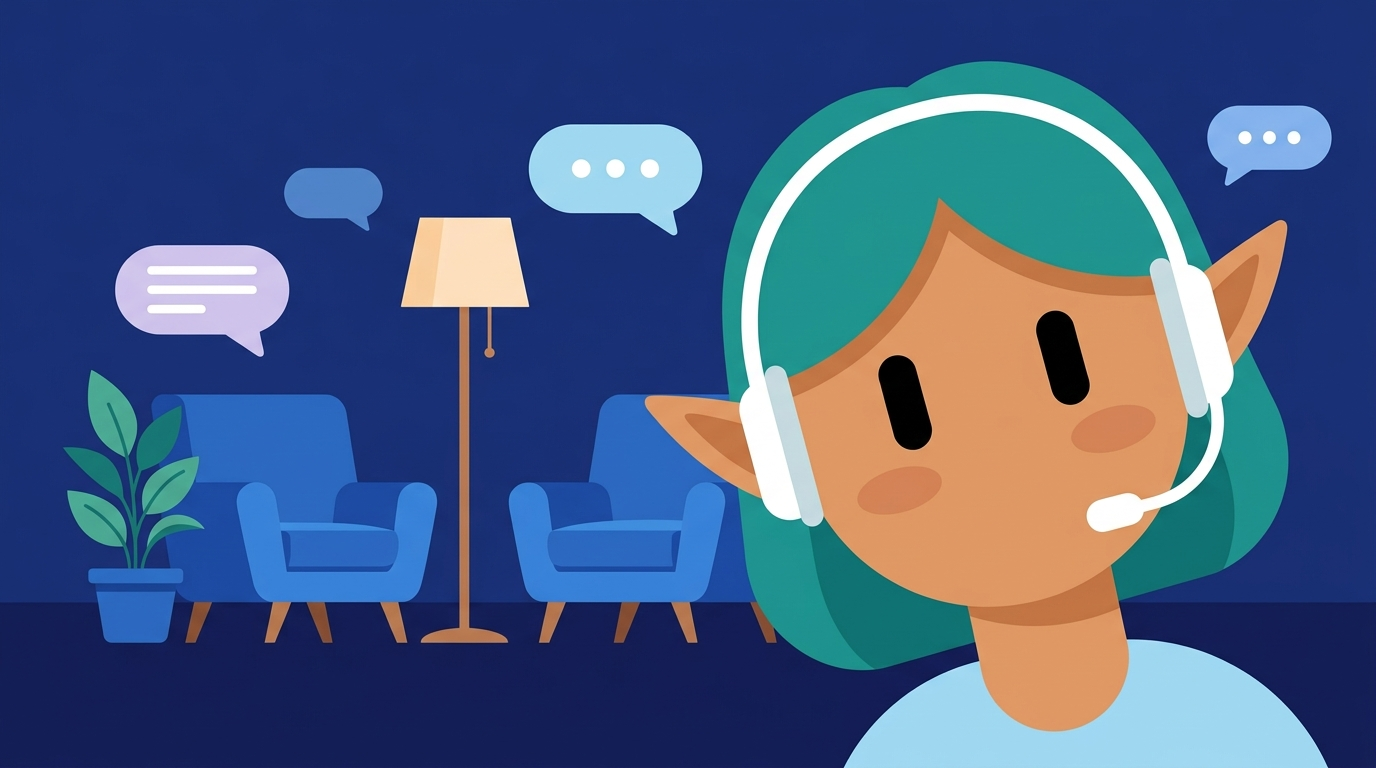
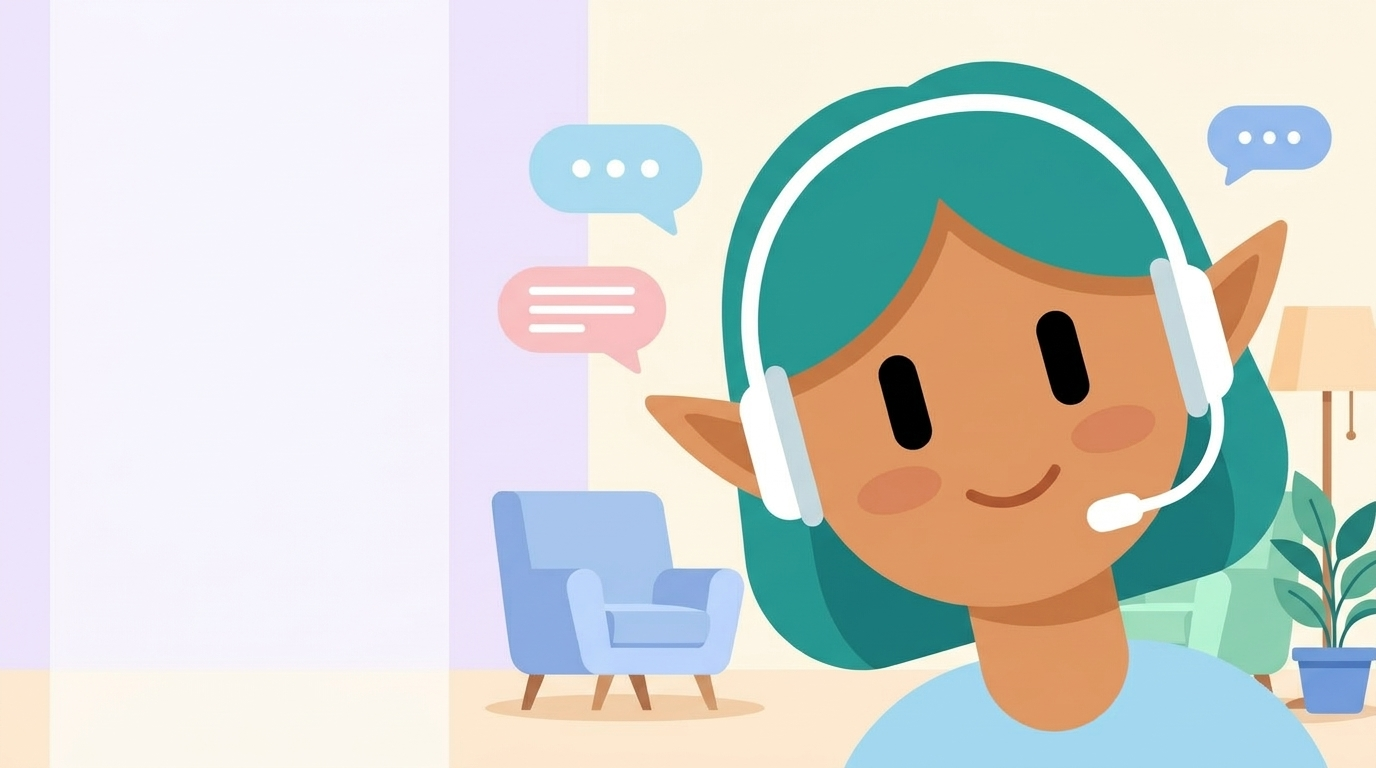
feat(course): update week 7 card image with brighter background and adjust theme

diff --git a/app/course/page.module.css b/app/course/page.module.css
@@ -711,33 +711,33 @@
 
 .readingCard[data-card-theme="midnight"] {
   border-color: #38bdf8;
-  background-color: #15224d;
+  background-color: #f6f4fa;
 }
 
 .readingCard[data-card-theme="midnight"] .readingBannerScrim {
-  background: linear-gradient(90deg, rgba(21, 34, 77, 0.96) 0%, rgba(21, 34, 77, 0.86) 42%, rgba(21, 34, 77, 0) 75%);
+  background: linear-gradient(90deg, rgba(246, 244, 250, 0.96) 0%, rgba(246, 244, 250, 0.88) 42%, rgba(246, 244, 250, 0) 75%);
 }
 
 .readingCard[data-card-theme="midnight"] .readingCategory {
-  background: #38bdf8;
-  color: #0c213c;
-}
-
-.readingCard[data-card-theme="midnight"] .readingAuthorTag {
-  color: #bae6fd;
-}
-
-.readingCard[data-card-theme="midnight"] .readingTitle {
+  background: #0284c7;
   color: #ffffff;
 }
 
+.readingCard[data-card-theme="midnight"] .readingAuthorTag {
+  color: #0369a1;
+}
+
+.readingCard[data-card-theme="midnight"] .readingTitle {
+  color: #0c213c;
+}
+
 .readingCard[data-card-theme="midnight"] .readingDescription {
-  color: #e0f2fe;
+  color: #1e3a5f;
 }
 
 .readingCard[data-card-theme="midnight"] .readingCtaPill {
-  background: #38bdf8;
-  color: #0c213c;
+  background: #0284c7;
+  color: #ffffff;
 }
 
 /* ── Content on top of banner ── */

diff --git a/app/shadow-work/page.module.css b/app/shadow-work/page.module.css
@@ -739,33 +739,33 @@
 
 .readingCard[data-card-theme="midnight"] {
   border-color: #38bdf8;
-  background-color: #15224d;
+  background-color: #f6f4fa;
 }
 
 .readingCard[data-card-theme="midnight"] .readingBannerScrim {
-  background: linear-gradient(90deg, rgba(21, 34, 77, 0.96) 0%, rgba(21, 34, 77, 0.86) 42%, rgba(21, 34, 77, 0) 75%);
+  background: linear-gradient(90deg, rgba(246, 244, 250, 0.96) 0%, rgba(246, 244, 250, 0.88) 42%, rgba(246, 244, 250, 0) 75%);
 }
 
 .readingCard[data-card-theme="midnight"] .readingCategory {
-  background: #38bdf8;
-  color: #0c213c;
-}
-
-.readingCard[data-card-theme="midnight"] .readingAuthorTag {
-  color: #bae6fd;
-}
-
-.readingCard[data-card-theme="midnight"] .readingTitle {
+  background: #0284c7;
   color: #ffffff;
 }
 
+.readingCard[data-card-theme="midnight"] .readingAuthorTag {
+  color: #0369a1;
+}
+
+.readingCard[data-card-theme="midnight"] .readingTitle {
+  color: #0c213c;
+}
+
 .readingCard[data-card-theme="midnight"] .readingDescription {
-  color: #e0f2fe;
+  color: #1e3a5f;
 }
 
 .readingCard[data-card-theme="midnight"] .readingCtaPill {
-  background: #38bdf8;
-  color: #0c213c;
+  background: #0284c7;
+  color: #ffffff;
 }
 
 /* ── Content on top of banner ── */
